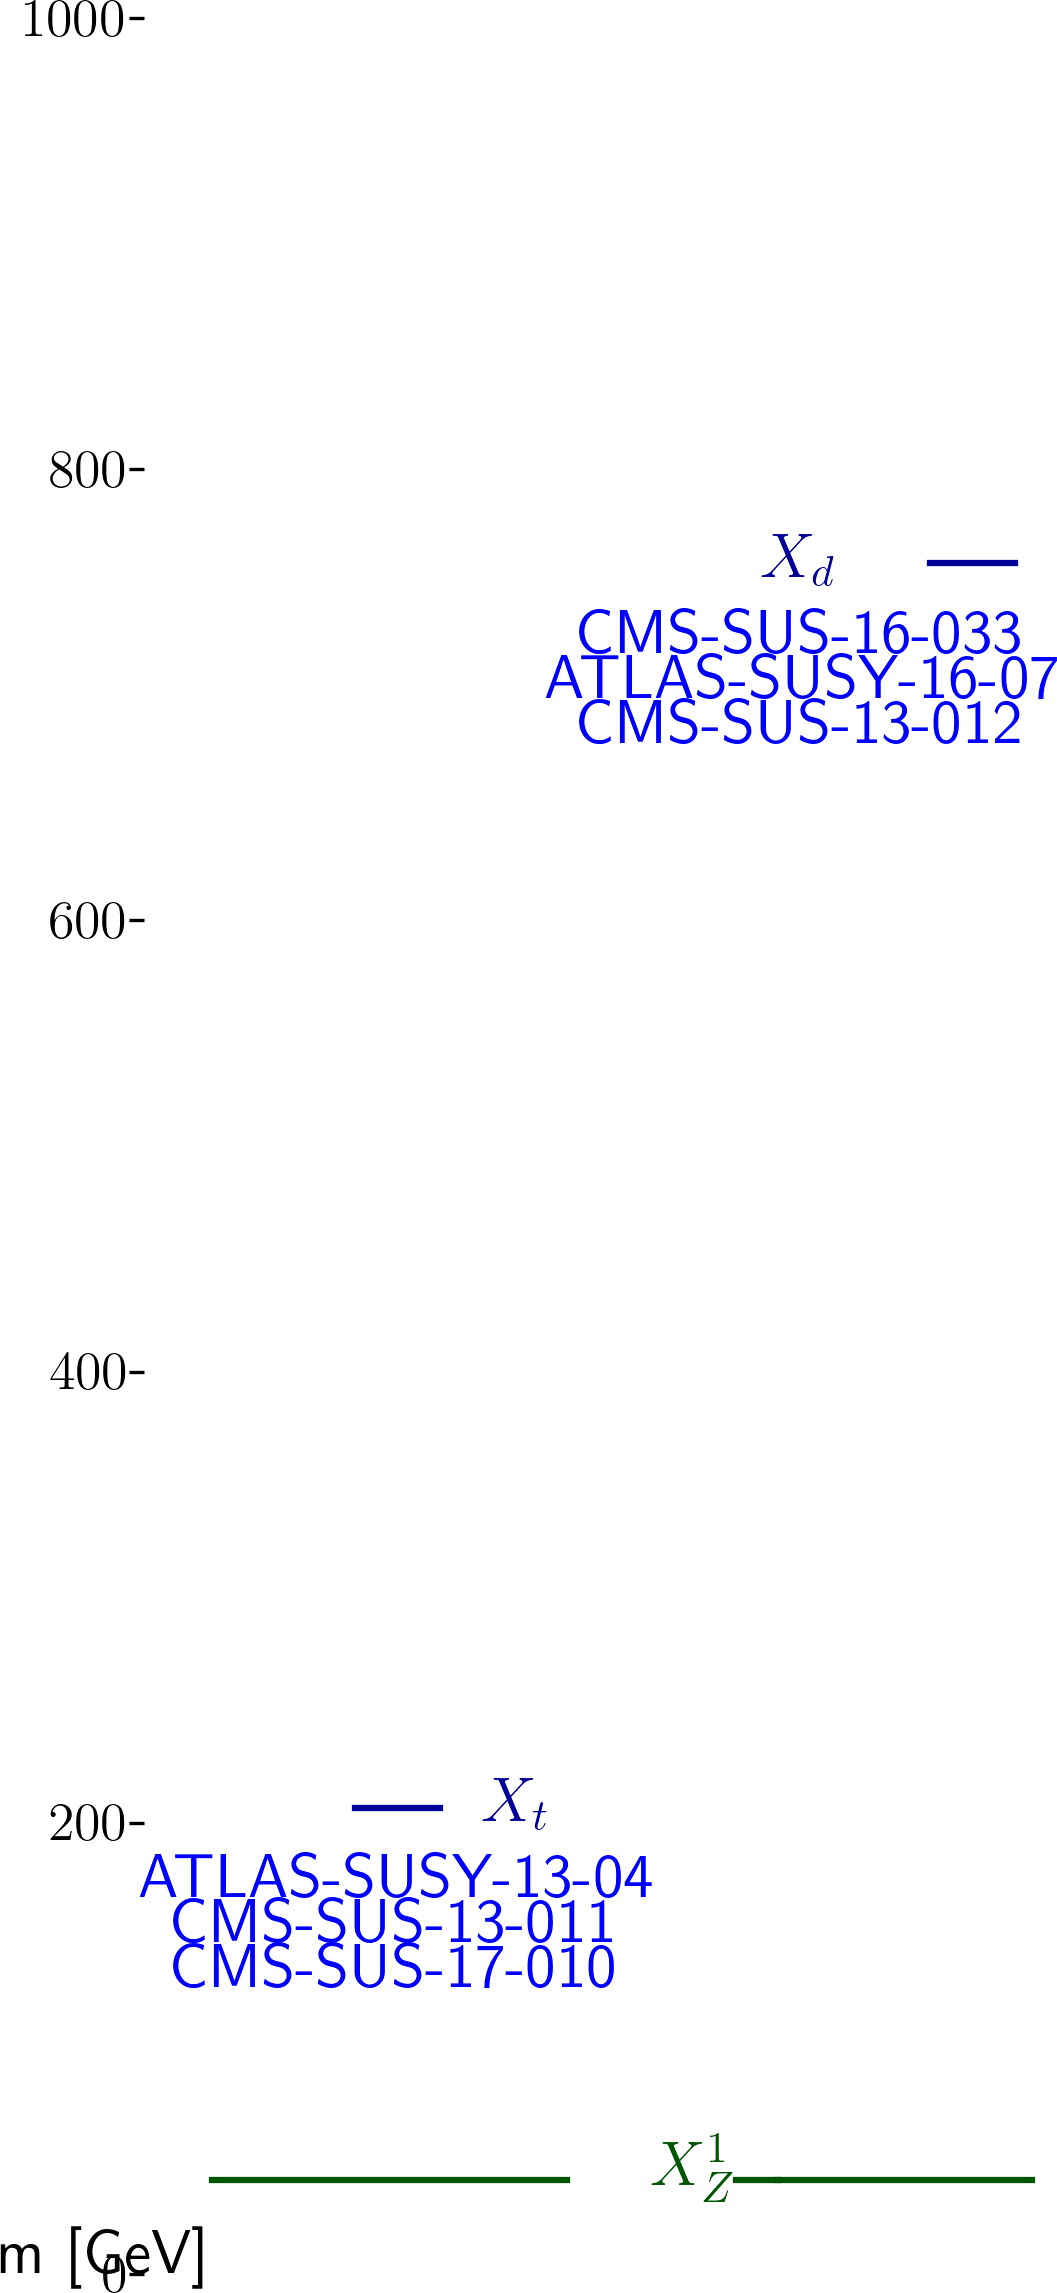
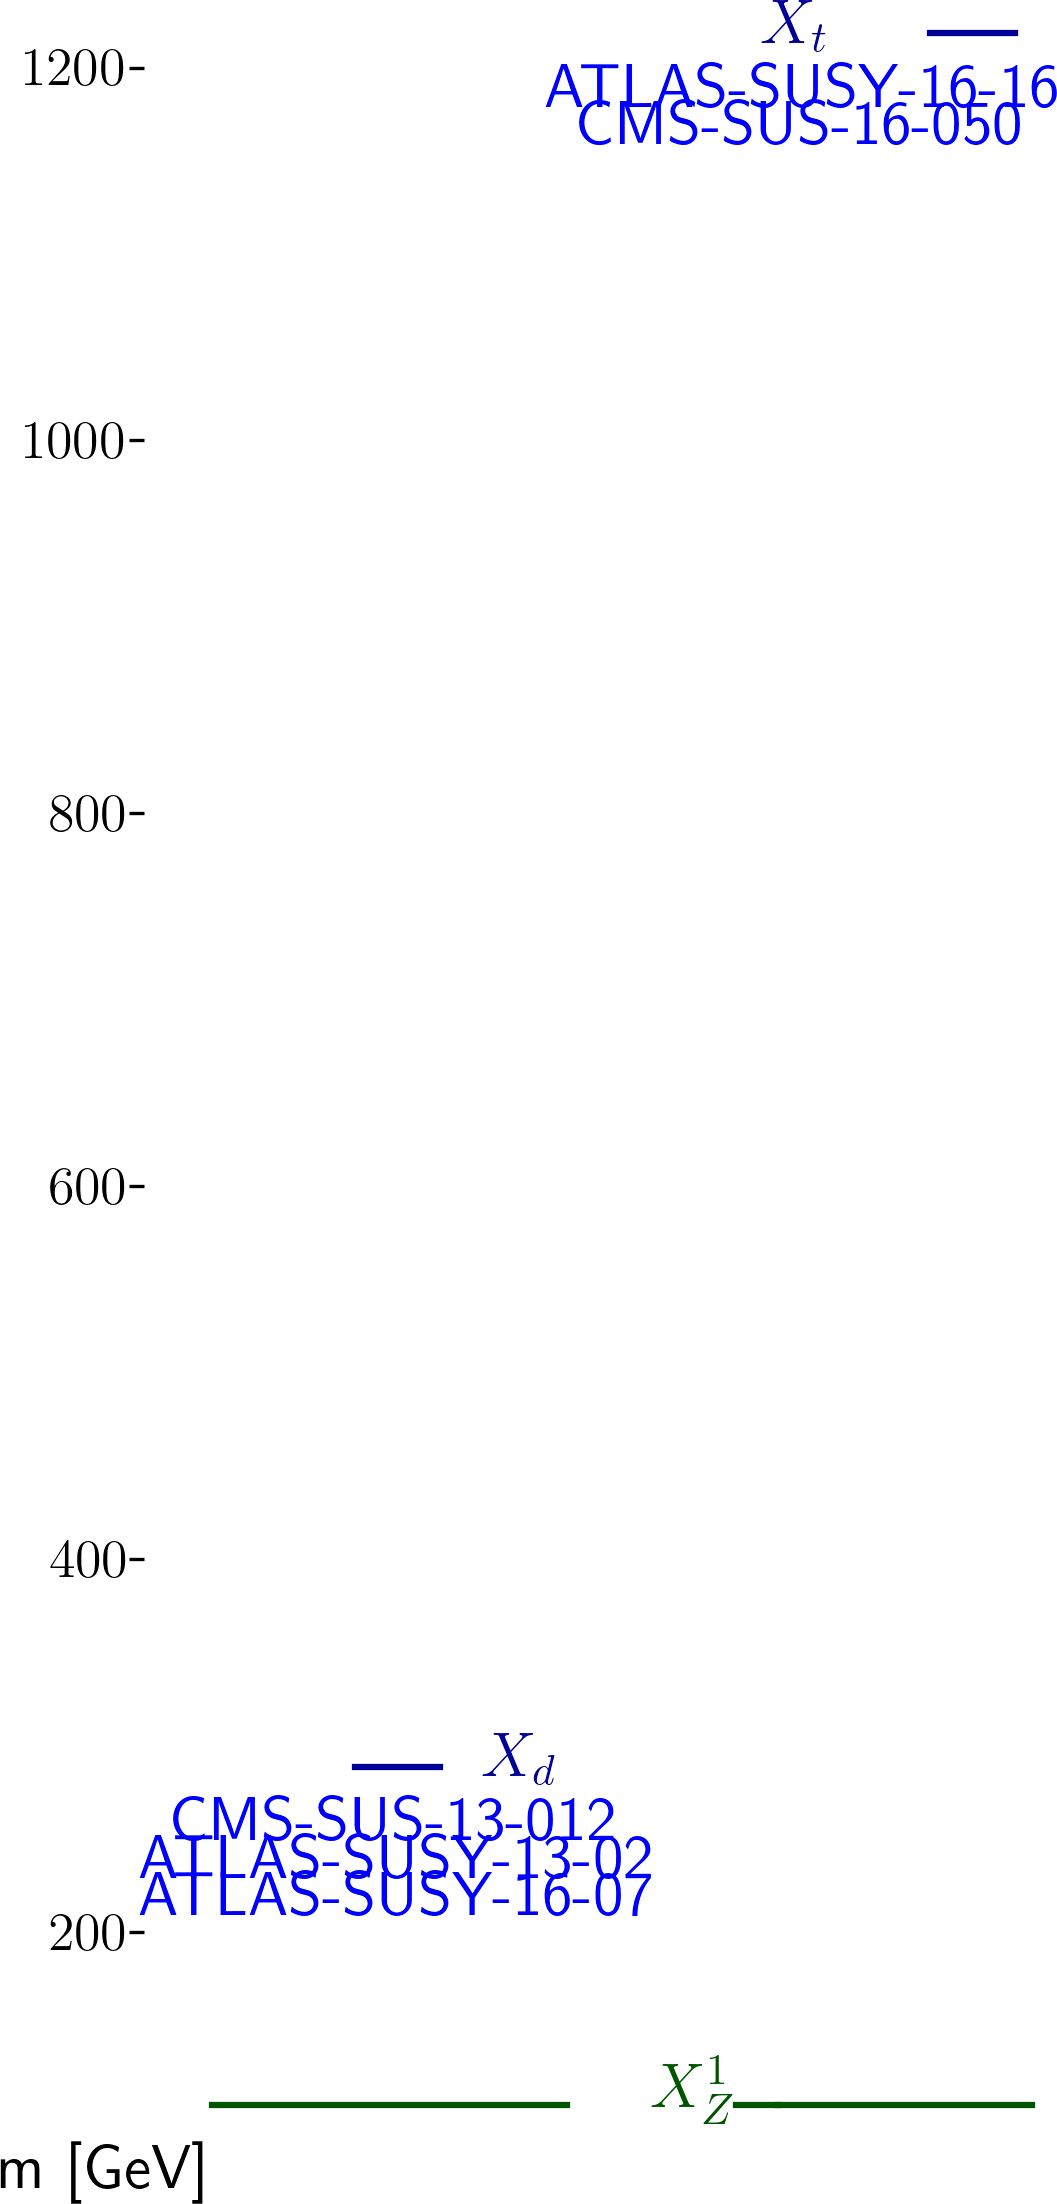
automated update by plotHiscore.py

diff --git a/protomodels/latest/index.html b/protomodels/latest/index.html
@@ -1,30 +1,30 @@
 <html>
 <body>
 <center>
-<table><td><h1>Current best protomodel: K=9.42</h1><td><img height=60px src=https://smodels.github.io/pics/banner.png></table>
+<table><td><h1>Current best protomodel: K=7.81</h1><td><img height=60px src=https://smodels.github.io/pics/banner.png></table>
 </center>
-<b><a href=./hiscore.slha>ProtoModel</a> <a href=./pmodel.py>(dict)</a> produced with <a href=https://smodels.github.io/docs/Validation124>database v1.2.4</a>, combination strategy <a href=./matrix_aggressive.png>aggressive</a> in walker 25 step 893.</b> K plots for: <a href=./M1000022.png?7785135>X<sub>Z</sub><sup>1</sup></a>, <a href=./M1000006.png?7785135>X<sub>t</sub></a>, <a href=./M1000004.png?7785135>X<sub>c</sub></a>. HPD plots for: <a href=./llhd1000006.png?7785135>X<sub>t</sub></a>, <a href=./llhd1000004.png?7785135>X<sub>c</sub></a>. SSM plots for: <a href=./ssm_-1000006_1000006.png?7785135>(x&#772;<sub>t</sub>,X<sub>t</sub>)</a><br>
+<b><a href=./hiscore.slha>ProtoModel</a> <a href=./pmodel.py>(dict)</a> produced with <a href=https://smodels.github.io/docs/Validation124>database v1.2.4</a>, combination strategy <a href=./matrix_aggressive.png>aggressive</a> in walker 43 step 755.</b> K plots for: <a href=./M1000022.png?7785164>X<sub>Z</sub><sup>1</sup></a>, <a href=./M1000006.png?7785164>X<sub>t</sub></a>, <a href=./M1000001.png?7785164>X<sub>d</sub></a>. HPD plots for: <a href=./llhd1000006.png?7785164>X<sub>t</sub></a>, <a href=./llhd1000001.png?7785164>X<sub>d</sub></a>. SSM plots for: <a href=./ssm_-1000006_1000006.png?7785164>(x&#772;<sub>t</sub>,X<sub>t</sub>)</a><br>
 <table width=80%>
 <tr><td>
-<br><b>21 predictions available. Highest r values are:</b><br><ul>
-<li><a href=https://twiki.cern.ch/twiki/bin/view/CMSPublic/PhysicsResultsSUS13004>CMS-SUS-13-004</a>:T2tt r=1.13, r<sub>exp</sub>=N/A<br>
-<li><a href=http://cms-results.web.cern.ch/cms-results/public-results/publications/SUS-19-006/index.html>CMS-SUS-19-006</a>:T2 r=1.12, r<sub>exp</sub>=N/A<br>
-<li><a href=http://cms-results.web.cern.ch/cms-results/public-results/publications/SUS-16-033/index.html>CMS-SUS-16-033</a>:T2 r=0.99, r<sub>exp</sub>=N/A<br>
-<li><a href=https://twiki.cern.ch/twiki/bin/view/CMSPublic/PhysicsResultsSUS13012>CMS-SUS-13-012</a>:T2tt,T2 r=0.77, r<sub>exp</sub>=N/A<br>
-<li><a href=http://cms-results.web.cern.ch/cms-results/public-results/publications/SUS-16-036/index.html>CMS-SUS-16-036</a>:T2 r=0.74, r<sub>exp</sub>=N/A<br>
+<br><b>10 predictions available. Highest r values are:</b><br><ul>
+<li><a href=https://atlas.web.cern.ch/Atlas/GROUPS/PHYSICS/PAPERS/SUSY-2016-07/>ATLAS-SUSY-2016-07</a>:T2 r=1.30, r<sub>exp</sub>=1.81<br>
+<li><a href=http://cms-results.web.cern.ch/cms-results/public-results/publications/SUS-19-006/index.html>CMS-SUS-19-006</a>:T2tt r=1.18, r<sub>exp</sub>=1.19<br>
+<li><a href=https://atlas.web.cern.ch/Atlas/GROUPS/PHYSICS/PAPERS/SUSY-2013-02/>ATLAS-SUSY-2013-02</a>:T2 r=1.13, r<sub>exp</sub>=1.30<br>
+<li><a href=http://cms-results.web.cern.ch/cms-results/public-results/publications/SUS-16-033/index.html>CMS-SUS-16-033</a>:T2tt,T2 r=1.07, r<sub>exp</sub>=1.18<br>
+<li><a href=https://twiki.cern.ch/twiki/bin/view/CMSPublic/PhysicsResultsSUS13012>CMS-SUS-13-012</a>:T2 r=0.75, r<sub>exp</sub>=0.56<br>
 </ul>
 <td><br><b>K values without analyses: (contribution)</b><br>
 <ul>
-<li> <a href=>ATLAS-SUSY-2013-02</a>: 5.72 (13%)
-<li> <a href=>CMS-SUS-12-028</a>: 5.38 (15%)
-<li> <a href=>ATLAS-SUSY-2016-16</a>: 3.06 (23%)
-<li> <a href=>CMS-SUS-16-050</a>: 2.87 (24%)
-<li> <a href=https://atlas.web.cern.ch/Atlas/GROUPS/PHYSICS/PAPERS/SUSY-2016-07/>ATLAS-SUSY-2016-07</a>: 2.67 (25%)
-<td><img width=600px src=./texdoc.png?1600785135>
-<br><font size=-1>Last updated: Tue Sep 22 16:32:15 2020</font>
+<li> <a href=https://atlas.web.cern.ch/Atlas/GROUPS/PHYSICS/PAPERS/SUSY-2013-02/>ATLAS-SUSY-2013-02</a>: 7.39 (3%)
+<li> <a href=https://twiki.cern.ch/twiki/bin/view/CMSPublic/PhysicsResultsSUS13012>CMS-SUS-13-012</a>: 6.55 (10%)
+<li> <a href=https://atlas.web.cern.ch/Atlas/GROUPS/PHYSICS/PAPERS/SUSY-2016-16/>ATLAS-SUSY-2016-16</a>: 4.79 (25%)
+<li> <a href=http://cms-results.web.cern.ch/cms-results/public-results/publications/SUS-16-050/index.html>CMS-SUS-16-050</a>: 4.73 (25%)
+<li> <a href=https://atlas.web.cern.ch/Atlas/GROUPS/PHYSICS/PAPERS/SUSY-2016-07/>ATLAS-SUSY-2016-07</a>: 3.49 (36%)
+<td><img width=600px src=./texdoc.png?1600785164>
+<br><font size=-1>Last updated: Tue Sep 22 16:32:44 2020</font>
 </table><table style="width:80%">
-<td width=45%><img height=580px src=./ruler.png?1600785135><td width=55%><img height=380px src=./decays.png?1600785135>
-<font size=-3><iframe type="text/html" height="220px" width="100%s" frameborder="0" src="./rawnumbers.html?1600785135"></iframe></font>
+<td width=45%><img height=580px src=./ruler.png?1600785164><td width=55%><img height=380px src=./decays.png?1600785164>
+<font size=-3><iframe type="text/html" height="220px" width="100%s" frameborder="0" src="./rawnumbers.html?1600785164"></iframe></font>
 </table>
 </body>
 </html>

diff --git a/protomodels/latest/rawnumbers.html b/protomodels/latest/rawnumbers.html
@@ -1,10 +1,9 @@
 <table>
 <tr><th>Analysis Name</th><th>Type</th><th>Dataset</th><th>Topos</th><th>Observed</th><th>Expected</th><th>Approx &sigma;</th><th>Particles</th>
 </tr>
-<tr><td><a href=https://atlas.web.cern.ch/Atlas/GROUPS/PHYSICS/PAPERS/SUSY-2013-04/>ATLAS-SUSY-2013-04</a></td><td>em</td> <td>GtGrid_SR_10ij5 ...</td><td>T2tt</td><td>3</td><td>1.37 +/- 0.35</td><td style="text-align:right">1.3 &sigma;</td><td style="text-align:right">X<sub>t</sub></td></tr>
+<tr><td><a href=https://atlas.web.cern.ch/Atlas/GROUPS/PHYSICS/PAPERS/SUSY-2013-02/>ATLAS-SUSY-2013-02</a></td><td>em</td> <td>SR6jtp</td><td>T2</td><td>6</td><td>4.9 +/- 1.6</td><td style="text-align:right">0.4 &sigma;</td><td style="text-align:right">X<sub>d</sub></td></tr>
 <tr><td><a href=https://atlas.web.cern.ch/Atlas/GROUPS/PHYSICS/PAPERS/SUSY-2016-07/>ATLAS-SUSY-2016-07</a></td><td>em</td> <td>2j_Meff_1200</td><td>T2</td><td>611</td><td>526 +/- 31</td><td style="text-align:right">2.2 &sigma;</td><td style="text-align:right">X<sub>d</sub></td></tr>
-<tr><td><a href=https://twiki.cern.ch/twiki/bin/view/CMSPublic/PhysicsResultsSUS13011>CMS-SUS-13-011</a></td><td>em</td> <td>LM150</td><td>T2tt</td><td>227</td><td>251 +/- 50</td><td style="text-align:right">-0.5 &sigma;</td><td style="text-align:right">X<sub>t</sub></td></tr>
-<tr><td><a href=https://twiki.cern.ch/twiki/bin/view/CMSPublic/PhysicsResultsSUS13012>CMS-SUS-13-012</a></td><td>ul</td> <td>-</td><td>T2</td><td> 23.5 fb </td><td> 14.8 fb</td><td style="text-align:right">1.1 &sigma;</td><td style="text-align:right">X<sub>d</sub></td></tr>
-<tr><td><a href=http://cms-results.web.cern.ch/cms-results/public-results/publications/SUS-16-033/index.html>CMS-SUS-16-033</a></td><td>em</td> <td>SR2_Njet3_Nb0_H ...</td><td>T2</td><td>71</td><td>55.2 +/- 11.5</td><td style="text-align:right">1.2 &sigma;</td><td style="text-align:right">X<sub>d</sub></td></tr>
-<tr><td><a href=http://cms-results.web.cern.ch/cms-results/public-results/publications/SUS-17-010>CMS-SUS-17-010</a></td><td>ul</td> <td>-</td><td>T2tt</td><td> 70405.0 fb </td><td> 30650.9 fb</td><td style="text-align:right">2.5 &sigma;</td><td style="text-align:right">X<sub>t</sub></td></tr>
+<tr><td><a href=https://atlas.web.cern.ch/Atlas/GROUPS/PHYSICS/PAPERS/SUSY-2016-16/>ATLAS-SUSY-2016-16</a></td><td>em</td> <td>tN_high</td><td>T2tt</td><td>8</td><td>3.8 +/- 1</td><td style="text-align:right">1.9 &sigma;</td><td style="text-align:right">X<sub>t</sub></td></tr>
+<tr><td><a href=https://twiki.cern.ch/twiki/bin/view/CMSPublic/PhysicsResultsSUS13012>CMS-SUS-13-012</a></td><td>em</td> <td>6NJet8_500HT800 ...</td><td>T2</td><td>9</td><td>0.8 +/- 3.3</td><td style="text-align:right">2.4 &sigma;</td><td style="text-align:right">X<sub>d</sub></td></tr>
+<tr><td><a href=http://cms-results.web.cern.ch/cms-results/public-results/publications/SUS-16-050/index.html>CMS-SUS-16-050</a></td><td>ul</td> <td>-</td><td>T2tt</td><td> 4.3 fb </td><td> 2.3 fb</td><td style="text-align:right">1.6 &sigma;</td><td style="text-align:right">X<sub>t</sub></td></tr>
 </table>

diff --git a/protomodels/latest/pmodel.py b/protomodels/latest/pmodel.py
@@ -1,1 +1,1 @@
-{'masses': {1000022: 31.657, 1000006: 196.582, 1000001: 748.296}, 'ssmultipliers': {(1000022, 1000022): 0.0, (1000006, 1000006): 0.0, (-1000006, 1000006): 0.741, (-1000006, -1000006): 0.741, (1000006, 1000022): 0.741, (-1000006, 1000022): 0.741, (1000001, 1000001): 1.041, (-1000001, 1000001): 1.041, (-1000001, -1000001): 1.041, (1000001, 1000022): 1.041, (-1000001, 1000022): 1.041, (1000001, 1000006): 1.041, (-1000001, 1000006): 1.041, (-1000006, 1000001): 1.041, (-1000006, -1000001): 1.041}, 'decays': {1000022: {}, 1000006: {1000022: 1.0}, 1000001: {1000022: 1.0}}, 'timestamp': 'Tue Sep 22 16:32:09 2020', 'Z': 3.598, 'K': 9.421, 'step': 893, 'codever': '1.0', 'dbver': '1.2.4'}
+{'masses': {1000022: 96.858, 1000006: 1208.598, 1000001: 278.515}, 'ssmultipliers': {(1000022, 1000022): 0.0, (1000006, 1000006): 0.75, (-1000006, 1000006): 0.75, (-1000006, -1000006): 0.75, (1000006, 1000022): 0.75, (-1000006, 1000022): 0.75, (1000001, 1000001): 0.479, (-1000001, 1000001): 0.479, (-1000001, -1000001): 0.479, (1000001, 1000022): 0.479, (-1000001, 1000022): 0.479, (1000001, 1000006): 0.479, (-1000001, 1000006): 0.479, (-1000006, 1000001): 0.479, (-1000006, -1000001): 0.479}, 'decays': {1000022: {}, 1000006: {1000022: 1.0}, 1000001: {1000022: 1.0}}, 'timestamp': 'Tue Sep 22 16:32:37 2020', 'Z': 3.37, 'K': 7.809, 'step': 755, 'codever': '1.0', 'dbver': '1.2.4'}
